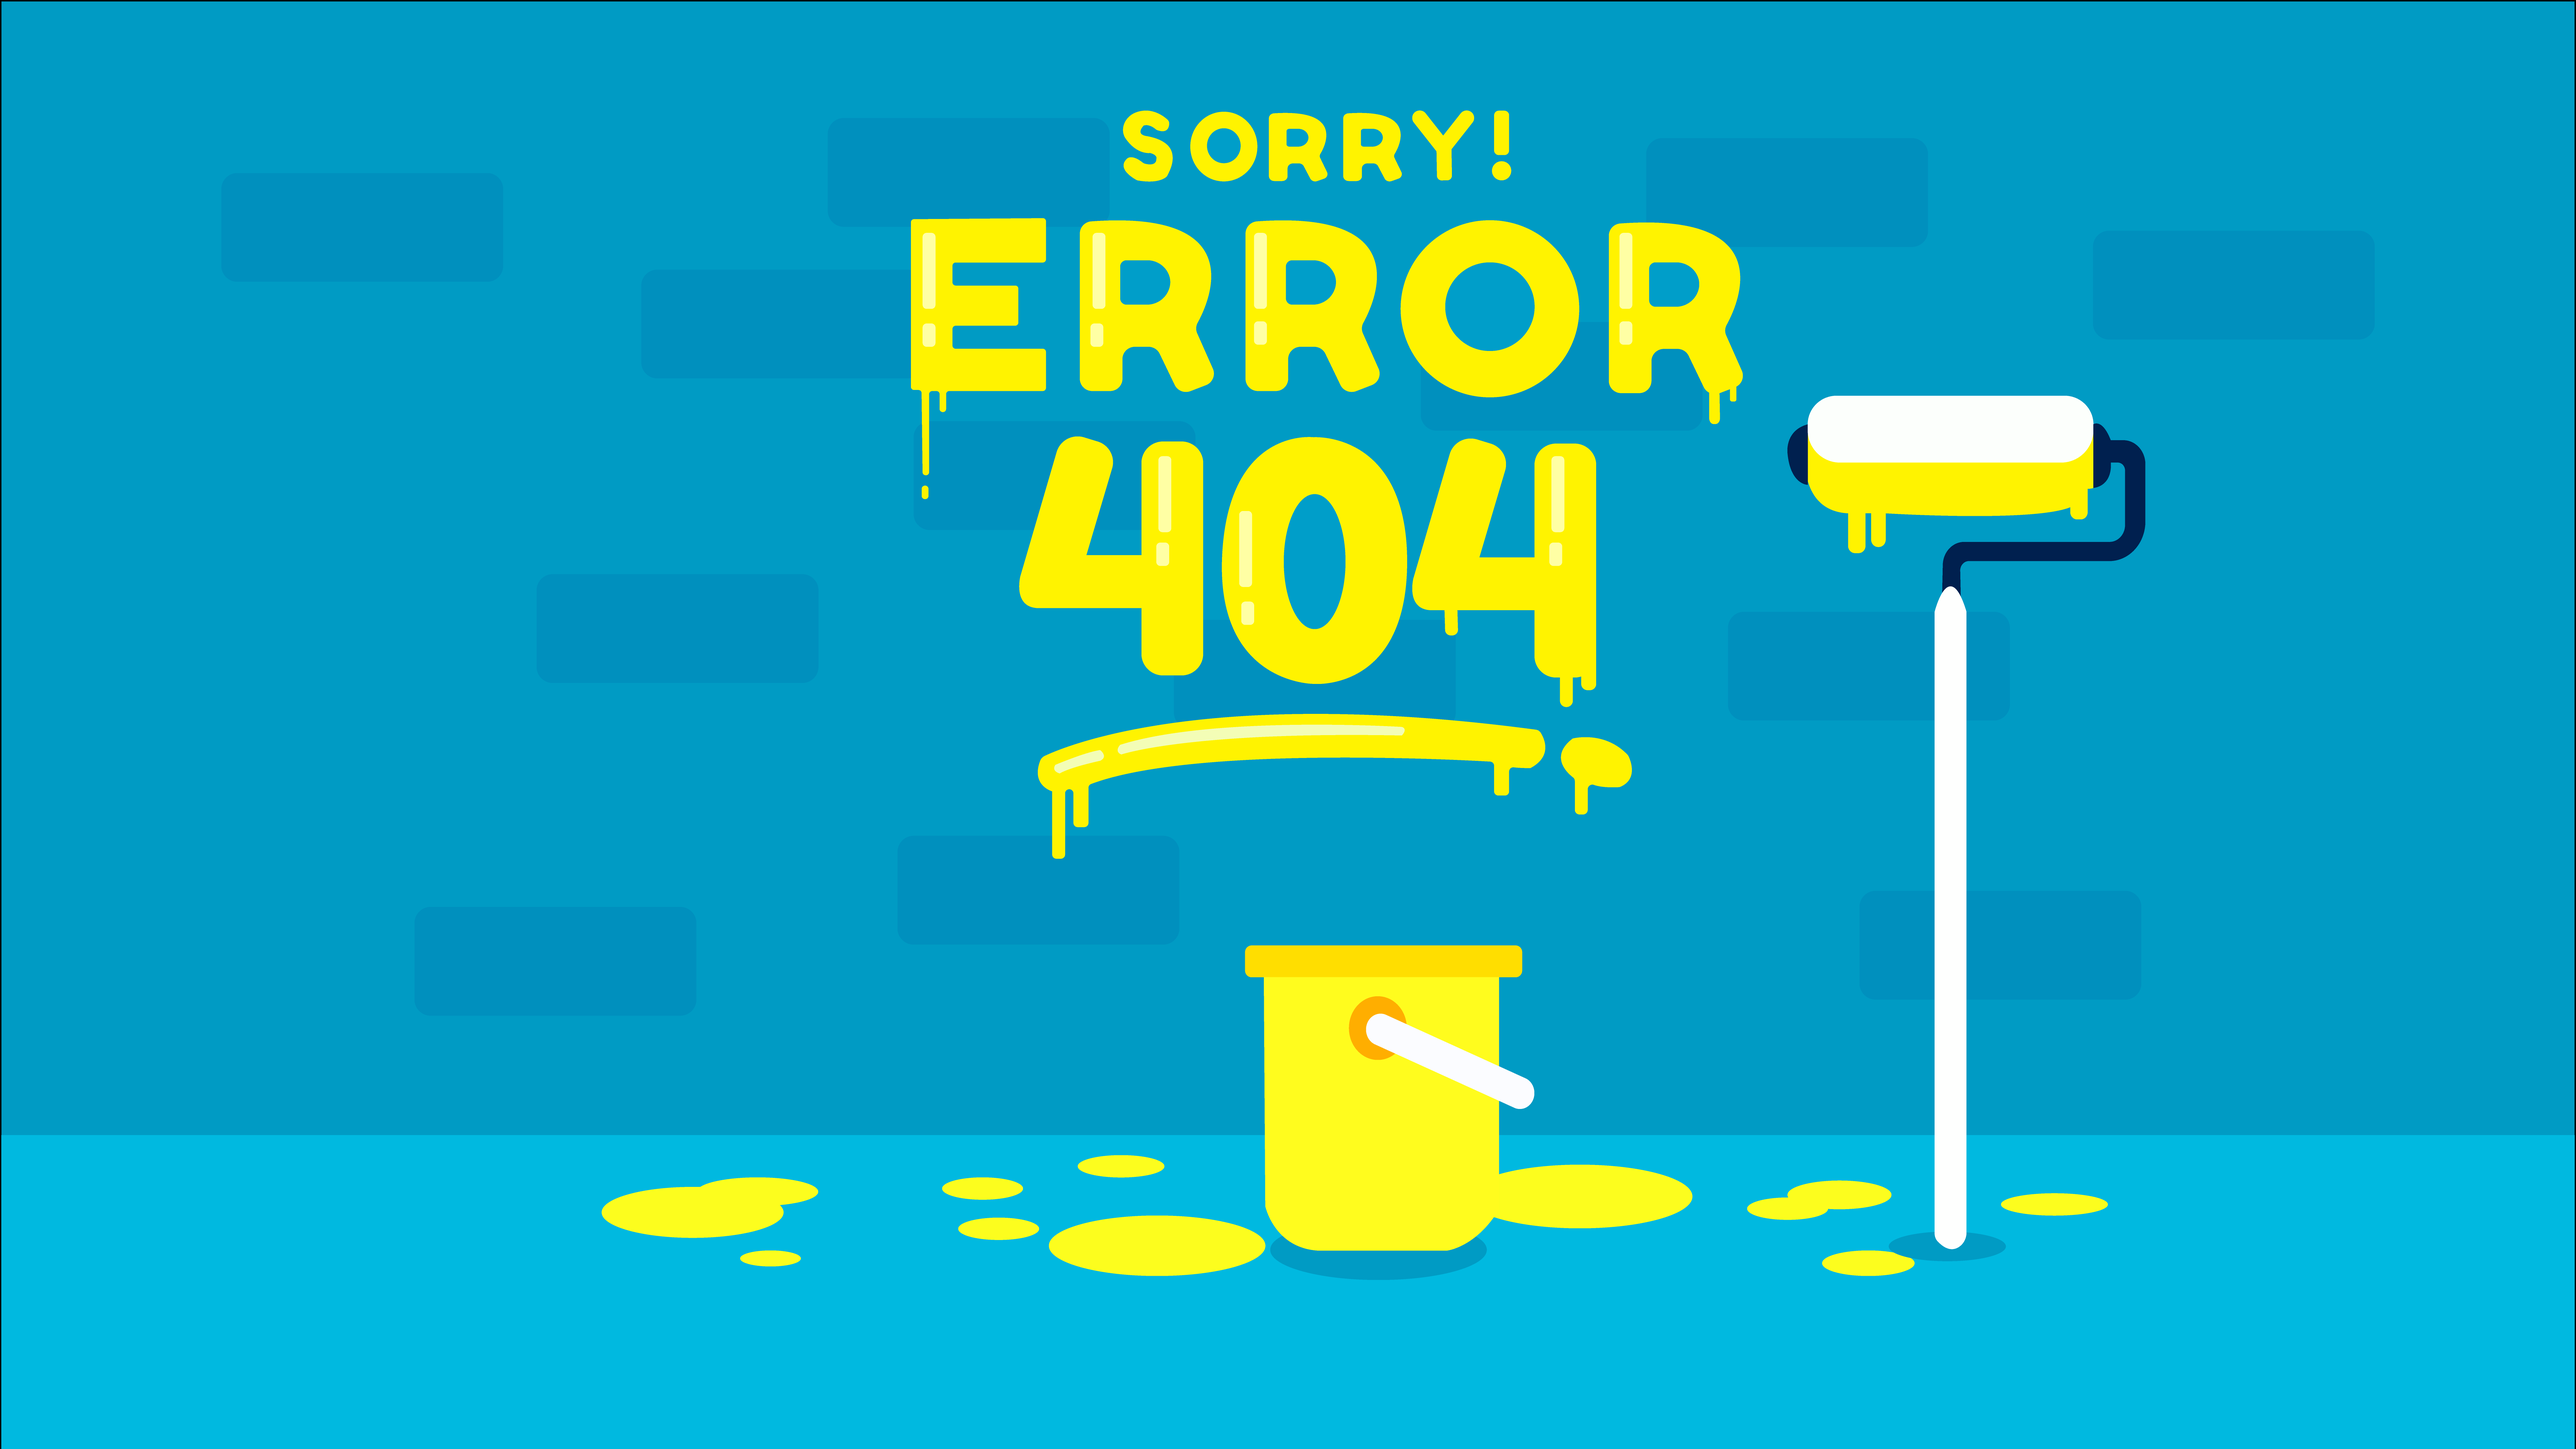
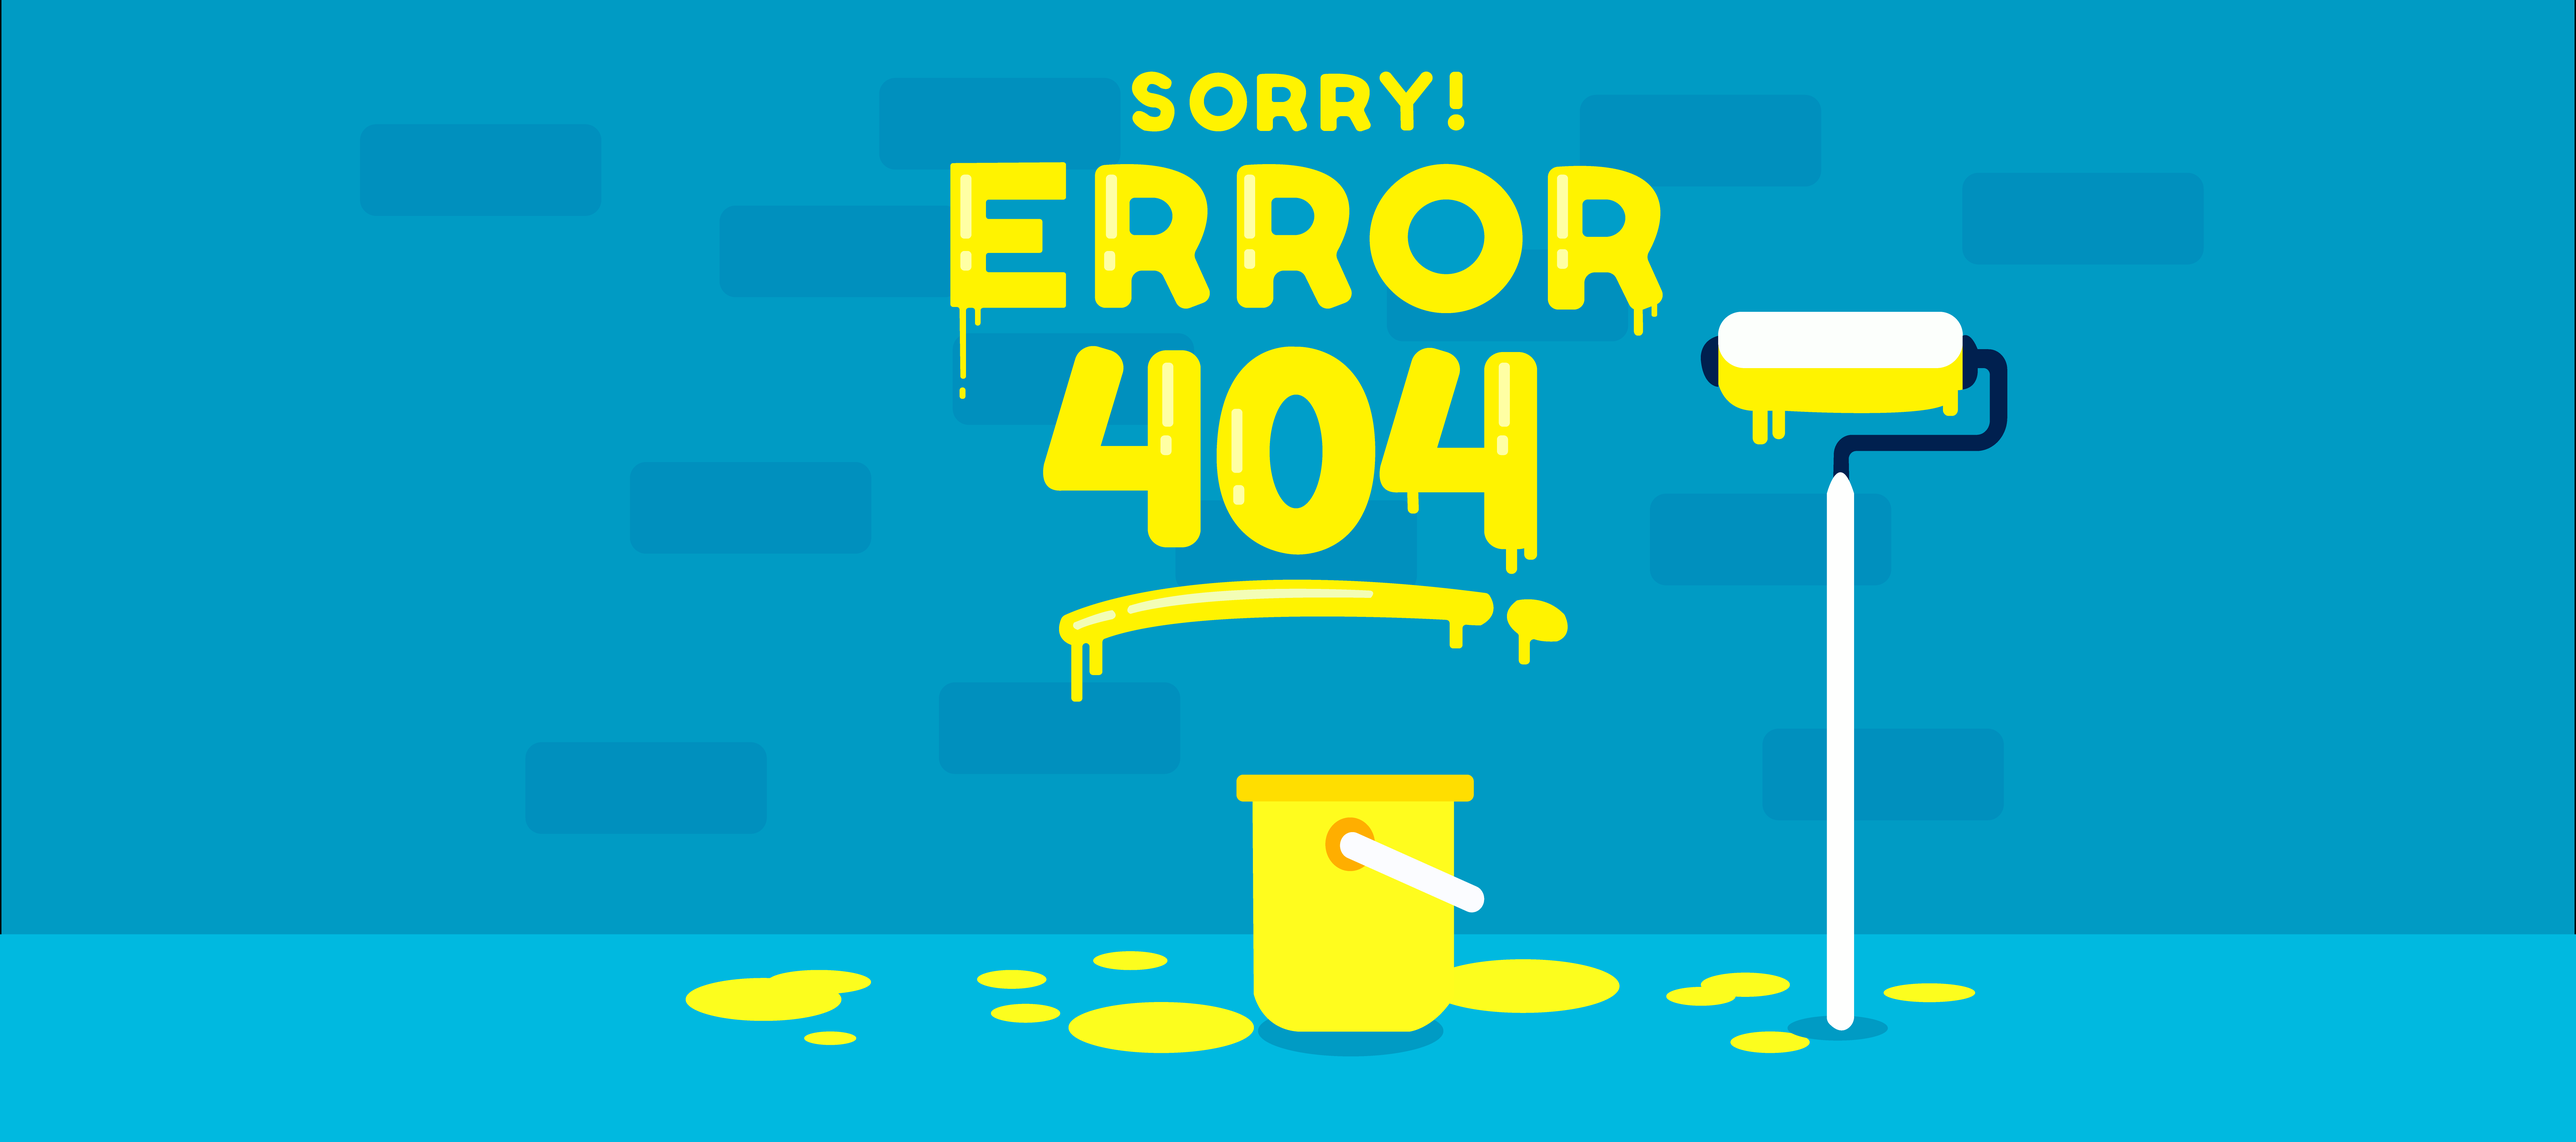
Mejora 404
Se ve mejor la pagina 404

Changed region(s): [[0.0, 0.062, 1.0, 0.9298]]

diff --git a/PinturaSV/ERROR404.html b/PinturaSV/ERROR404.html
@@ -14,24 +14,20 @@
     <body class="body404">
       <header>
         <div>
-          <img class="responsive-img" src="web/img/ERROR404.png">
-        </div>
-        <div class="container">
-          <div class="row s12 center-align">
-          <a class="btn yellow darken-1 btn pulse indigo-text text-darken-4"><i class="material-icons">format_paint</i>Back to Home</a>
-        </div>
+          <img class="responsive-img" src="web/img/error404.png">
         </div>
       </header>
       <main>
-
+        <div class="fixed-action-btn horizontal">
+          <a class="btn-large yellow darken-1 btn pulse indigo-text text-darken-4"><i class="large material-icons">format_paint</i>Back to Home</a>
+          </div>
+        </main> 
         <!--Import jQuery before materialize.js-->      
         <script type="text/javascript" src="web/js/main.js"></script>
         <script type="text/javascript" src="web/js/ini.js"></script>
         <script type="text/javascript" src="js/materialize.min.js"></script>
         <script type="text/javascript" src="web/js/fontawesom.js"></script>
-      </main> 
         <footer>
-          
         </footer>
     </body>
   </html>
